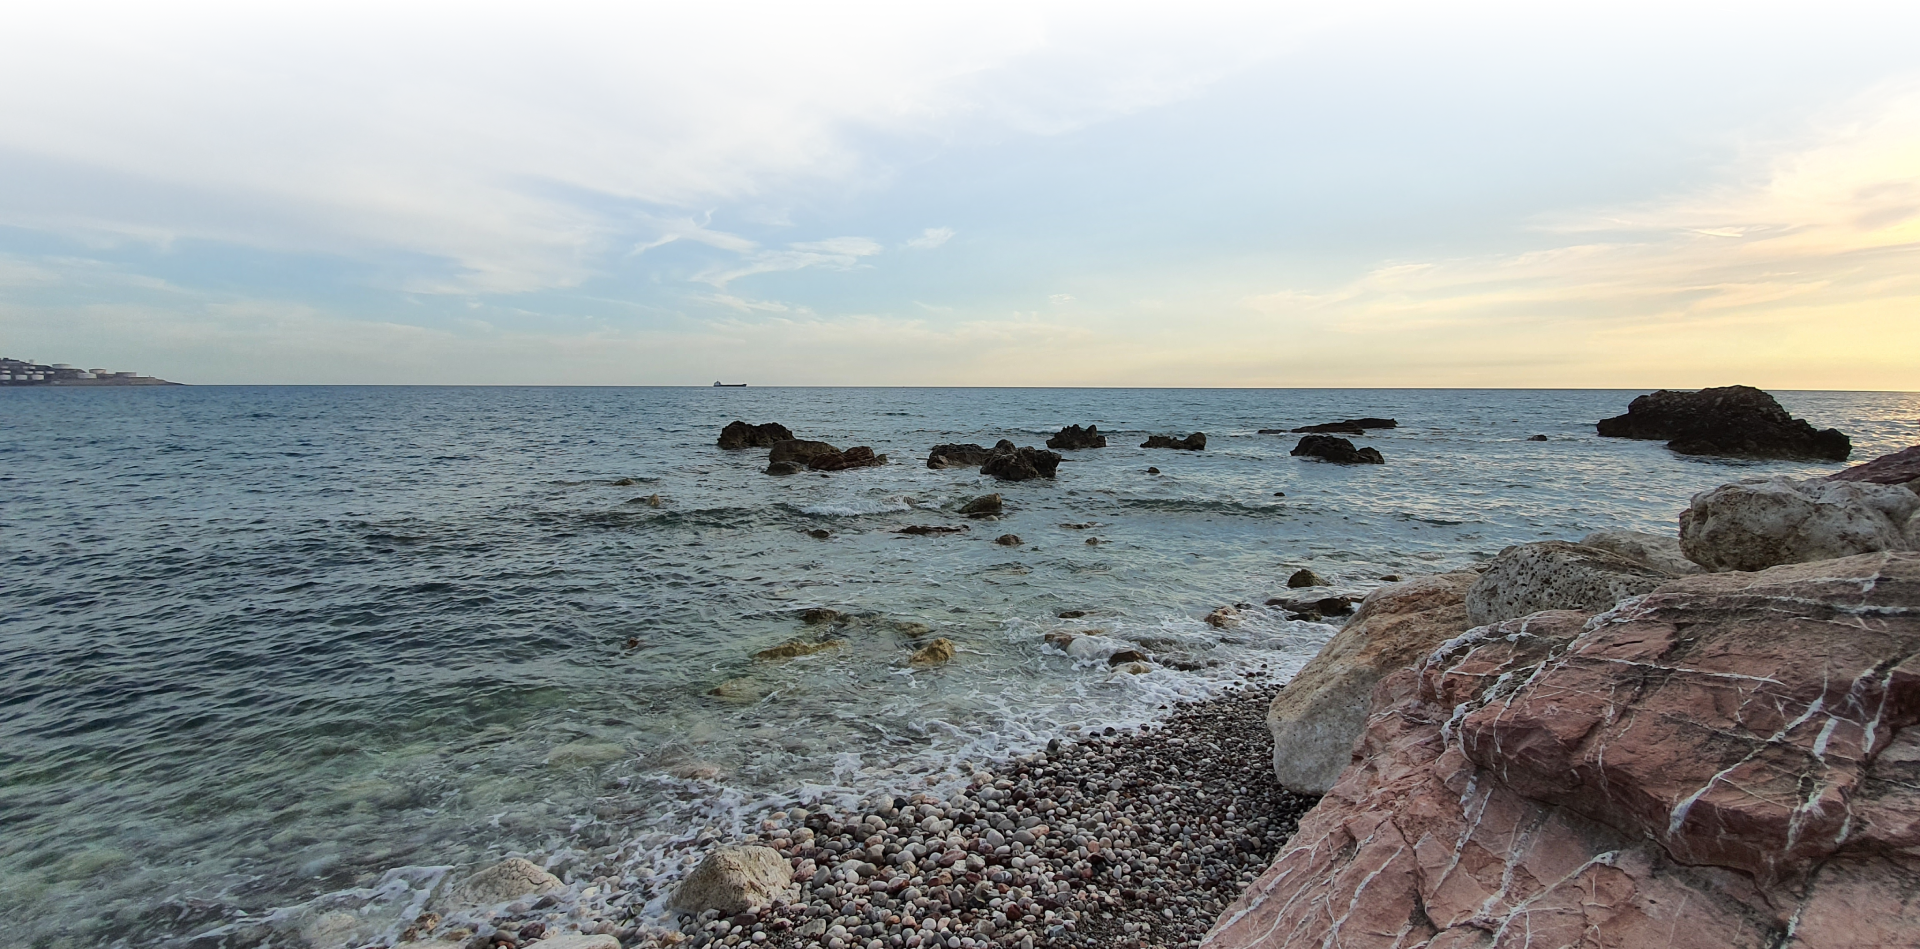
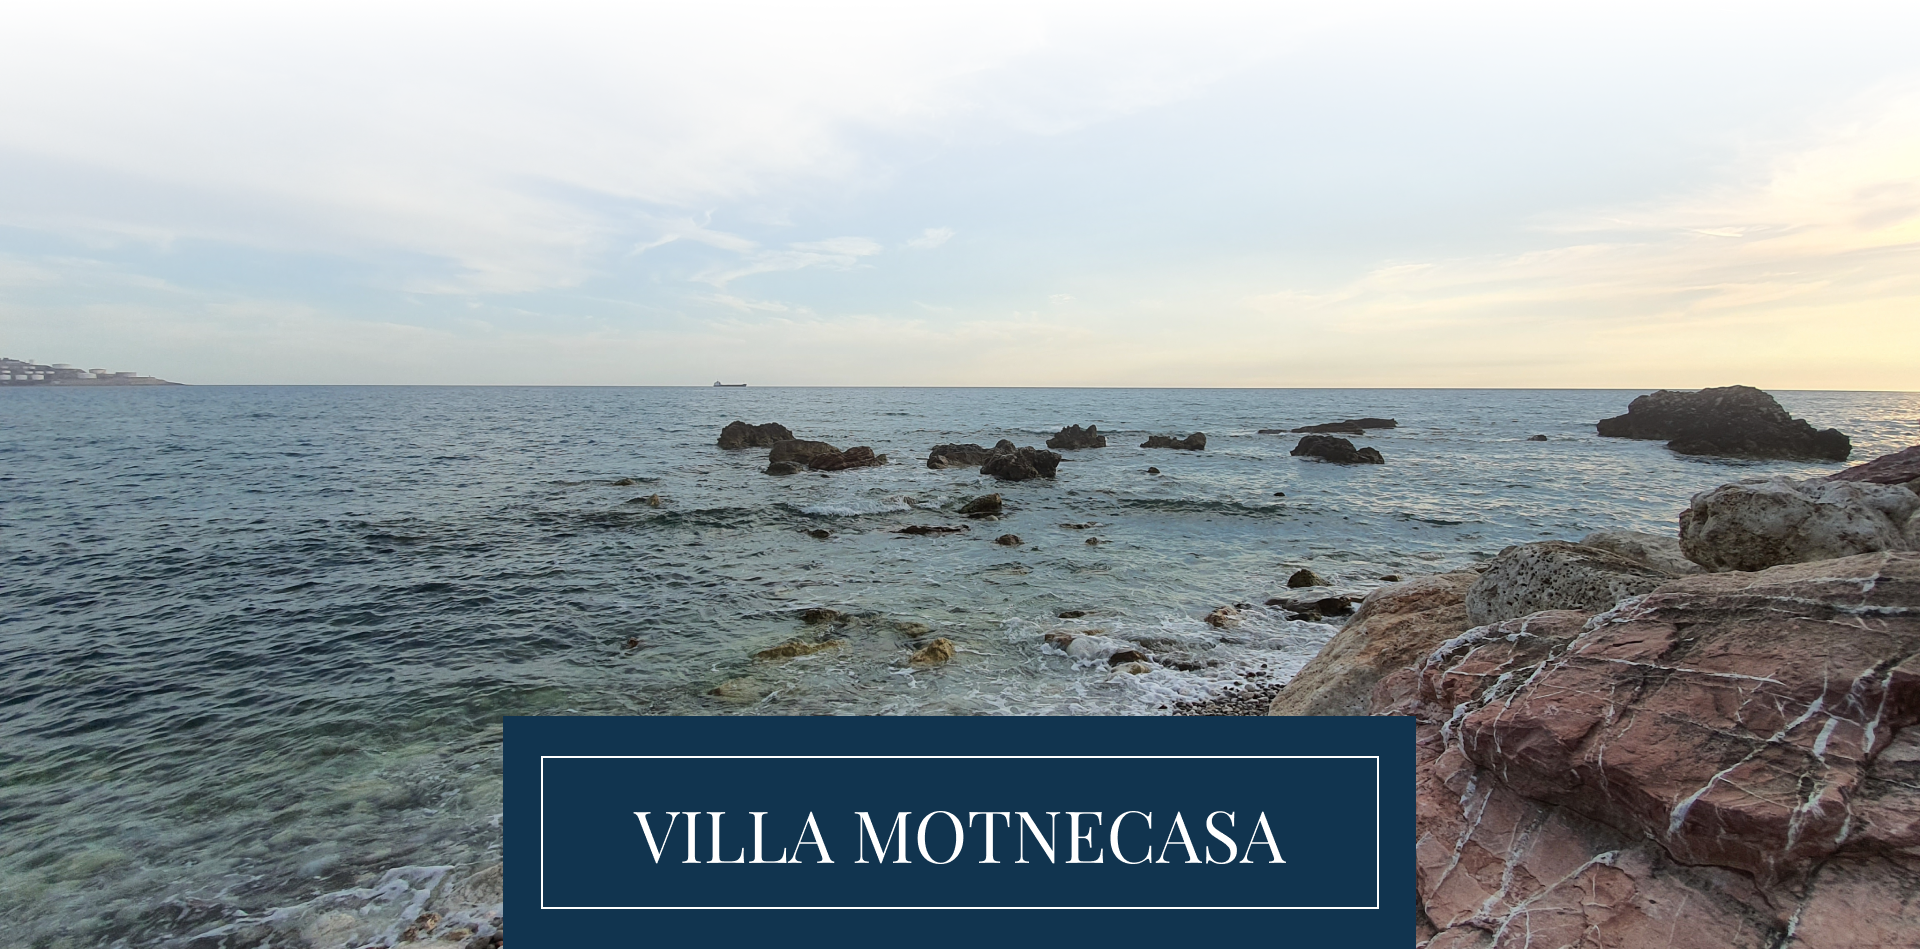
1

Changed region(s): [[0.25, 0.7334, 0.75, 1.0], [0.0, 0.2445, 1.0, 0.4889]]

diff --git a/index.html b/index.html
@@ -51,10 +51,7 @@
         </div>
         
 </div>
-        
-        <div class="header__title">
-            <h1>Villa montecasa</h1>
-        </div>
+       
     </header>
 
 
@@ -77,9 +74,7 @@
     </div>
     <div class="home">
         <img class="home__img" src="img/home.png" alt="home">
-        <div class="home__title">
-            <p>Villa montecasa</p>
-        </div>
+        
     </div>
     <div class="apartmans">
         <div class="container">
